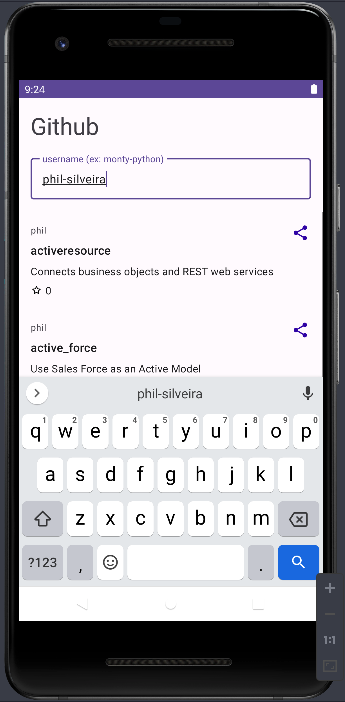
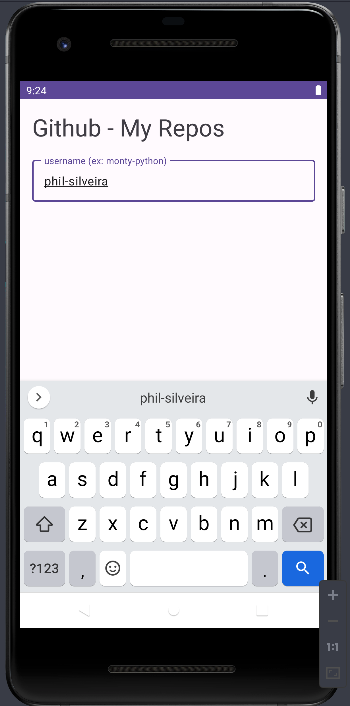
chore: update screenshot

diff --git a/README.md b/README.md
@@ -1,4 +1,4 @@
-# Github - Search User Repos
+# Github - My Repos
 
 ## Description
 
